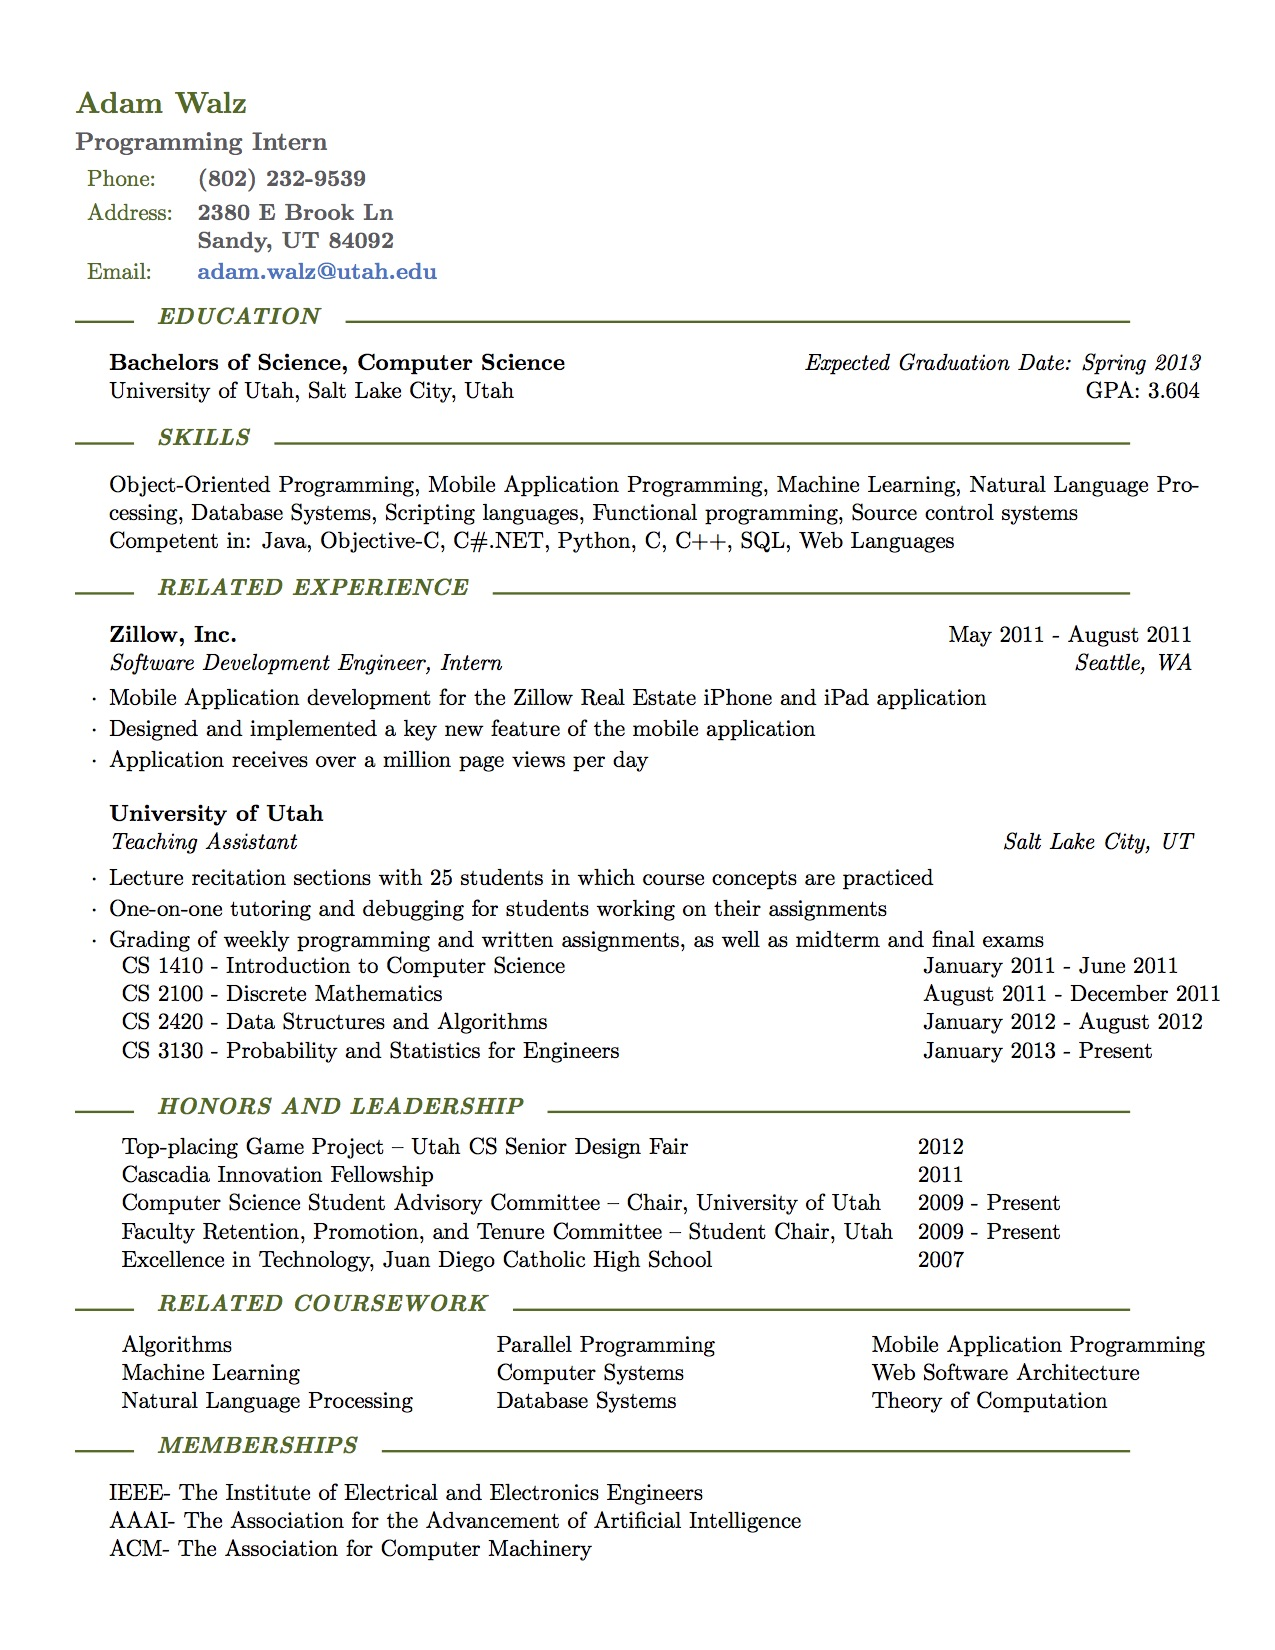
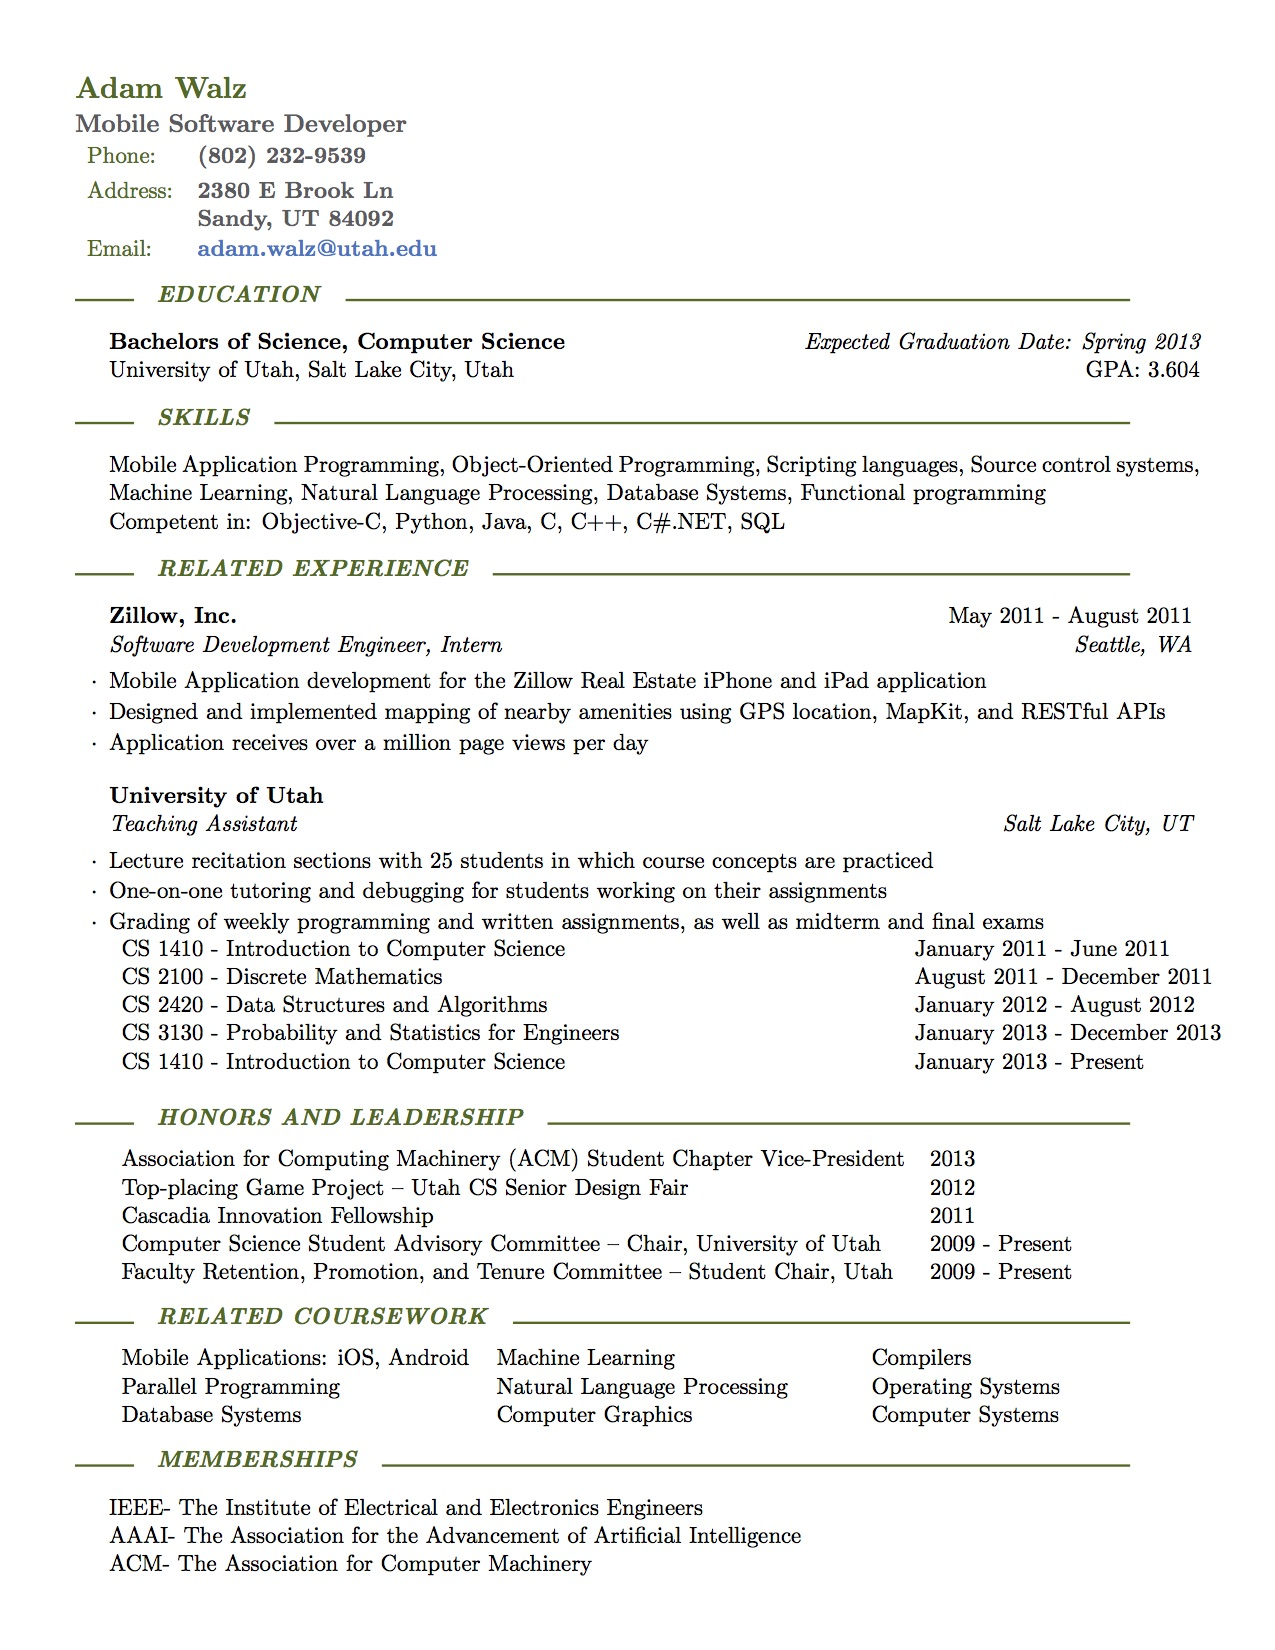
Add ACM chair and more TA positions
Created when applying as a mobile application developer for
Erasys Software Engineering

diff --git a/resume.tex b/resume.tex
@@ -4,7 +4,7 @@
 \usepackage{tabularx}
 
 \name{Adam Walz}
-\jobtitle{Programming Intern}
+\jobtitle{Mobile Software Developer}
 \address{\parbox[t]{5cm}{2380 E Brook Ln\\Sandy, UT 84092}}
 \phone{(802) 232-9539}
 \email{adam.walz@utah.edu}
@@ -27,8 +27,8 @@ University of Utah, Salt Lake City, Utah \hfill  GPA: 3.604
 
 \begin{rSection}{Skills}
 
-Object-Oriented Programming, Mobile Application Programming, Machine Learning, Natural Language Processing, Database Systems, Scripting languages, Functional programming, Source control systems \\
-Competent in: Java, Objective-C, C\#.NET, Python, C, C++, SQL, Web Languages
+Mobile Application Programming, Object-Oriented Programming, Scripting languages,  Source control systems, Machine Learning, Natural Language Processing, Database Systems, Functional programming \\
+Competent in: Objective-C, Python, Java, C, C++, C\#.NET, SQL
 
 \end{rSection}
 
@@ -45,7 +45,7 @@ Competent in: Java, Objective-C, C\#.NET, Python, C, C++, SQL, Web Languages
 \begin{experienceZillow}
 \begin{rSubsection}{Zillow, Inc.}{May 2011 - August 2011}{Software Development Engineer, Intern}{Seattle, WA}
 \item Mobile Application development for the Zillow Real Estate iPhone and iPad application
-\item Designed and implemented a key new feature of the mobile application
+\item Designed and implemented mapping of nearby amenities using GPS location, MapKit, and RESTful APIs
 \item Application receives over a million page views per day
 \end{rSubsection}
 \end{experienceZillow}
@@ -62,7 +62,8 @@ Competent in: Java, Objective-C, C\#.NET, Python, C, C++, SQL, Web Languages
 CS 1410 - Introduction to Computer Science & January 2011 - June 2011 \\
 CS 2100 - Discrete Mathematics & August 2011 - December 2011 \\
 CS 2420 - Data Structures and Algorithms &  January 2012 - August 2012 \\
-CS 3130 - Probability and Statistics for Engineers & January 2013 - Present \\
+CS 3130 - Probability and Statistics for Engineers & January 2013 - December 2013 \\
+CS 1410 - Introduction to Computer Science & January 2013 - Present \\
 \end{tabularx}
 \end{rSubsection}
 \end{experienceTA}
@@ -94,11 +95,12 @@ CS 3130 - Probability and Statistics for Engineers & January 2013 - Present \\
 
 \begin{rSection}{Honors and Leadership}
 \begin{tabularx}{\textwidth}{ l l }
+Association for Computing Machinery (ACM) Student Chapter Vice-President & 2013 \\
 Top-placing Game Project \textendash\ Utah CS Senior Design Fair & 2012 \\
 Cascadia Innovation Fellowship & 2011 \\
 Computer Science Student Advisory Committee \textendash\ Chair, University of Utah & 2009 - Present \\
 Faculty Retention, Promotion, and Tenure Committee \textendash\ Student Chair, Utah & 2009 - Present \\
-Excellence in Technology, Juan Diego Catholic High School & 2007 \\
+%Excellence in Technology, Juan Diego Catholic High School & 2007 \\
 %Theatre Technical Director, Draper City Arts Council \& Skaggs Catholic Center & 2005 - 2010 \\
 %University of Utah High School Programming Challenge- 2nd Place & 2007 \\
 %Utah State High School LearnKey Challenge - 1st Place Linux+, 2nd Place Cisco Routing & 2007 \\
@@ -112,9 +114,9 @@ Excellence in Technology, Juan Diego Catholic High School & 2007 \\
 
 \begin{rSection}{Related Coursework}
 \begin{tabularx}{\textwidth}{ X X X }
-Algorithms & Parallel Programming & Mobile Application Programming \\
-Machine Learning & Computer Systems & Web Software Architecture \\
-Natural Language Processing & Database Systems & Theory of Computation
+Mobile Applications: iOS, Android & Machine Learning & Compilers \\
+Parallel Programming & Natural Language Processing & Operating Systems \\
+Database Systems & Computer Graphics & Computer Systems \\
 \end{tabularx}
 
 \end{rSection}
